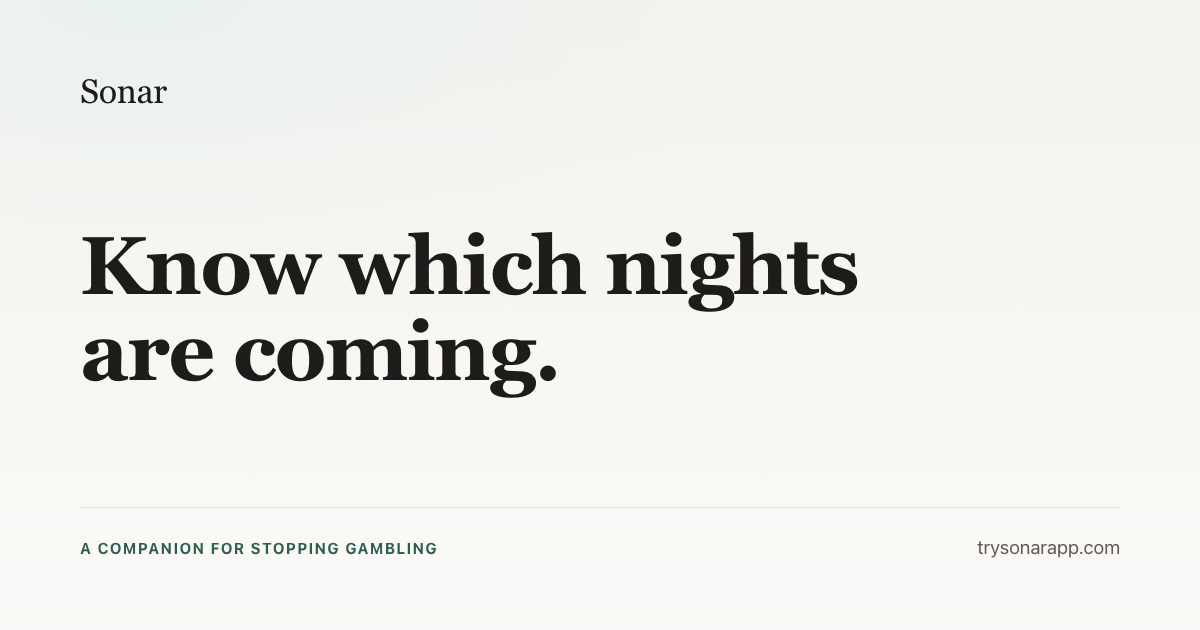
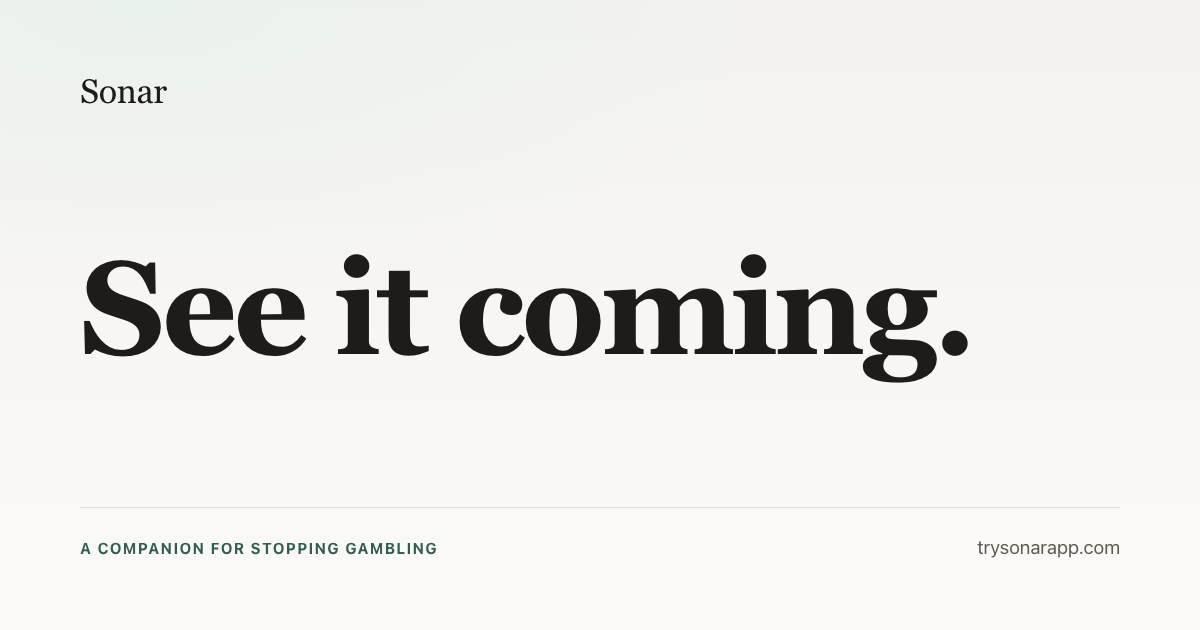
Rewrite the hero catchline in both locales
"Know which nights are coming" repeated `landing.lead` almost word for word,
and the `meta.home` title as well — so the largest text on the page was the
only text on it that said nothing new.

  EN  See it coming.
  FR  Anticipe.

The French is not a translation. "Vois-le venir" isn't idiomatic; "Anticipe"
carries the same idea in ordinary French, imperative and tutoiement like the
rest of the page. Both describe what the app shows you and promise nothing
about the outcome, which is rule 1.

Two things assumed the old line and had to move with it:

  - The headline gradient was vertical, to land the accent on the last of
    three lines. Three words in English wraps to two lines or one depending
    on width, and one word in French never wraps — a vertical ramp fades
    every glyph top-to-bottom instead of picking out a word. Diagonal now,
    which lands on the closing word in every case.
  - design/og-cover.html had the old headline baked in, at a size chosen for
    a longer one. Re-rendered.

Changed region(s): [[0.0617, 0.3619, 0.8017, 0.6333]]

diff --git a/src/i18n/en.ts b/src/i18n/en.ts
@@ -70,8 +70,16 @@ export const en = {
      * for *why*, one line down, where a reader who now knows what the app does
      * can take it. Leading with it made the page read as a verdict on the person
      * reading it, which is the one thing this product doesn't do.
+     *
+     * Three words on purpose. This was "Know which nights are coming", which
+     * repeated `lead` below almost exactly and also the `meta.home` title — so the
+     * largest text on the page was the only text that said nothing new. The short
+     * version leaves the explaining to the paragraph that was already doing it.
+     *
+     * It is deliberately about seeing, not about stopping: it describes what the
+     * app shows you and promises nothing about the outcome. Rule 1.
      */
-    catchline: 'Know which nights are coming.',
+    catchline: 'See it coming.',
     // mobile/i18n/en/onboarding.ts → opening.hook / line1 / line2.
     // Aimed at gambling, not at the reader: the page promises no lectures a few
     // lines further down, and a hook that accuses the person reading it breaks

diff --git a/design/og-cover.html b/design/og-cover.html
@@ -45,11 +45,13 @@
         letter-spacing: -0.01em;
       }
 
+      /* Sized up from 82px: the catchline is three words now, and at the old size
+         it sat in the middle of the card looking like a caption. */
       .catchline {
         font-family: var(--font-serif);
-        font-size: 82px;
-        line-height: 1.04;
-        letter-spacing: -0.02em;
+        font-size: 132px;
+        line-height: 1.02;
+        letter-spacing: -0.03em;
         max-width: 15ch;
       }
 
@@ -78,7 +80,8 @@
   </head>
   <body>
     <p class="wordmark">Sonar</p>
-    <h1 class="catchline">Know which nights are coming.</h1>
+    <!-- Must match `landing.catchline` in src/i18n/en.ts. -->
+    <h1 class="catchline">See it coming.</h1>
     <div class="foot">
       <p class="tagline">A companion for stopping gambling</p>
       <p class="note">trysonarapp.com</p>

diff --git a/src/i18n/fr.ts b/src/i18n/fr.ts
@@ -68,8 +68,13 @@ export const fr = {
      * Voir la note dans en.ts : le titre dit ce que l'app fait, pas ce que le
      * lecteur est. `hook` reste sur la page, une ligne plus bas, là où il fait
      * son travail d'argument plutôt que de verdict.
+     *
+     * Un seul mot, et pas la traduction de l'anglais — « Vois-le venir » ne se dit
+     * pas. « Anticipe » porte la même idée en français courant, à l'impératif et au
+     * tutoiement comme le reste de la page. Ne promet aucun résultat : rien sur le
+     * fait d'arrêter, seulement sur le fait de voir venir. Règle 1.
      */
-    catchline: 'Sache quels soirs arrivent.',
+    catchline: 'Anticipe.',
     // mobile/i18n/fr/onboarding.ts → opening.hook / line1 / line2.
     hook: 'Personne n’est gagnant.',
     line1: 'Ni sur un an. Ni sur dix.',
